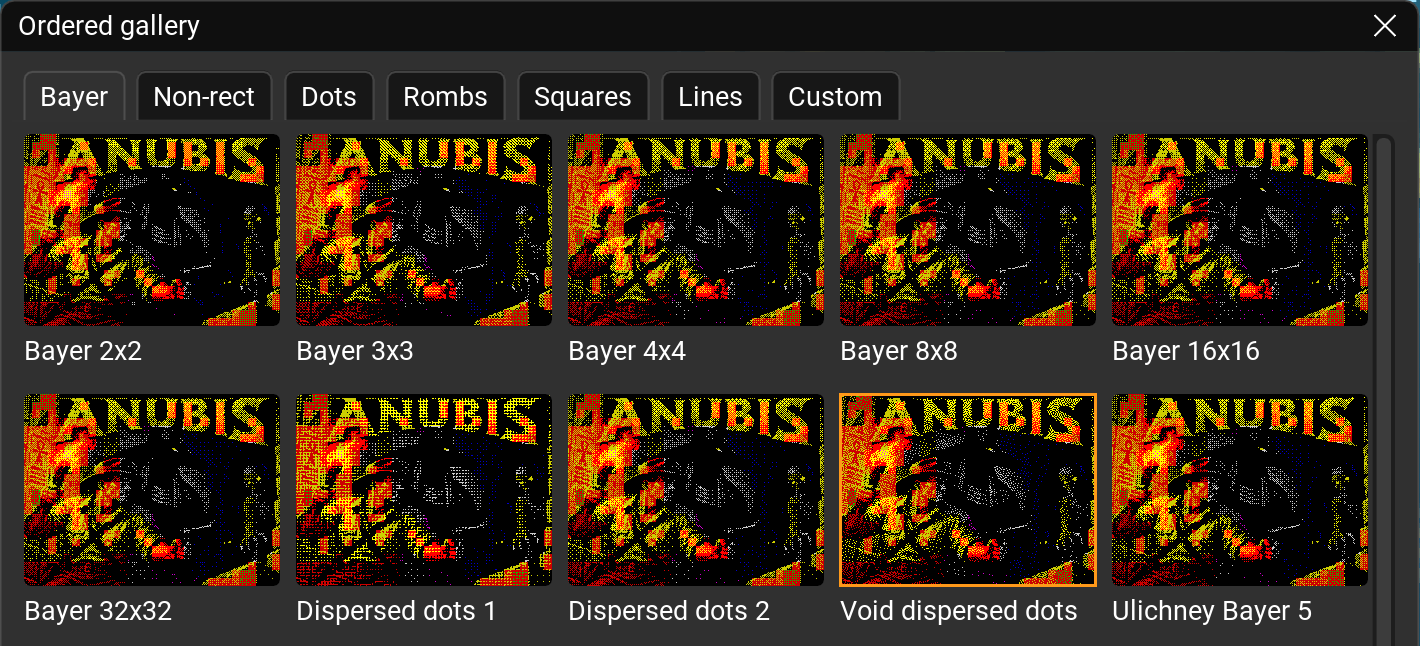
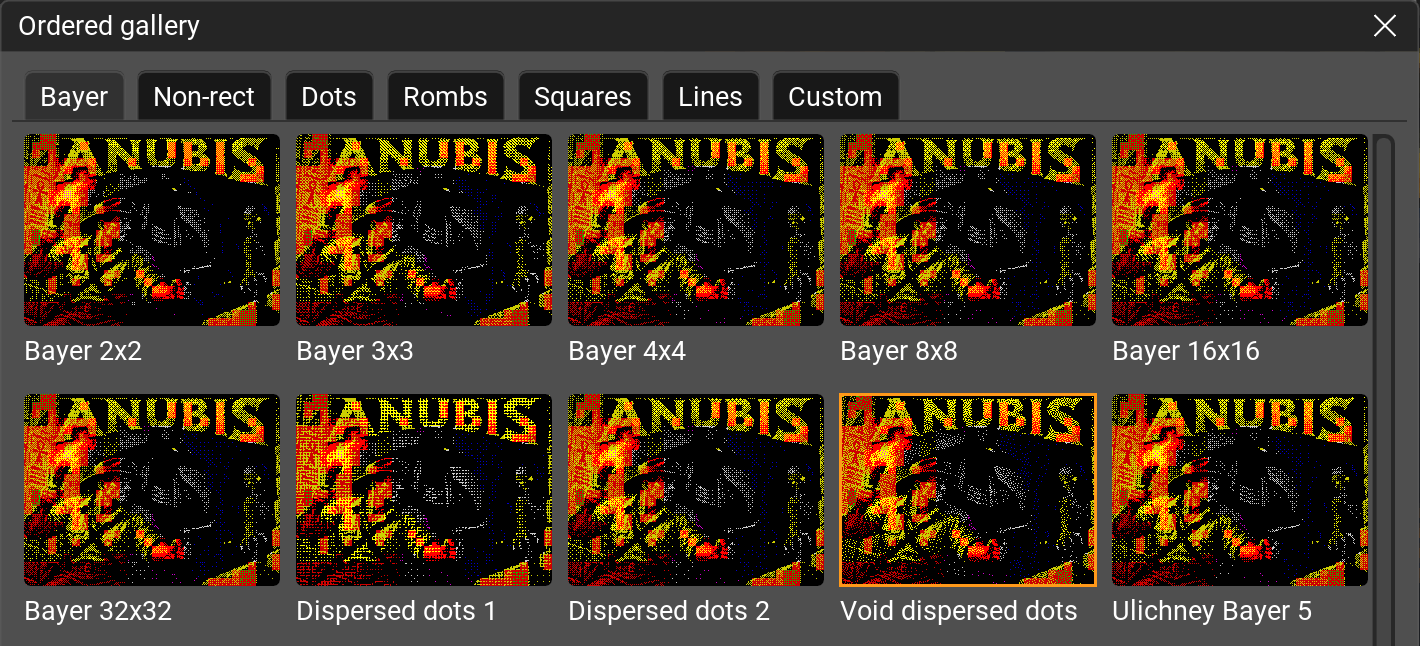
PhotoshopStyle as the default theme; the UI tests and the screenshots on it
The test runs' temp ini kept the theme of the first run there, so they ran on the old default: a test run does not
remember the theme. The docs' pictures retaken on PhotoshopStyle.

Claude-Session: https://claude.ai/code/session_01LD28UwYSy5EQZZBPjBZYX9

diff --git a/src/mokit/ui/style.py b/src/mokit/ui/style.py
@@ -17,7 +17,7 @@ from contextlib import contextmanager
 
 from imgui_bundle import imgui, hello_imgui, em_size, em_to_vec2
 
-THEME = hello_imgui.ImGuiTheme_.so_dark_accent_blue
+THEME = hello_imgui.ImGuiTheme_.photoshop_style
 FONT, FONT_SIZE = "fonts/Roboto/Roboto-Regular.ttf", 16.0   # imgui_bundle asset; hello_imgui scales it for DPI
 FONT_BOLD = "fonts/Roboto/Roboto-Bold.ttf"
 FONT_ICONS = "fonts/Font_Awesome_6_Free-Solid-900.otf"   # merged into both: icons_fontawesome_6.ICON_FA_* in any label

diff --git a/src/dizher/ui/window.py b/src/dizher/ui/window.py
@@ -413,6 +413,7 @@ class Window:
             p.app_window_params.restore_previous_geometry = False
             p.ini_folder_type = hello_imgui.IniFolderType.temp_folder
             p.docking_params.layout_condition = hello_imgui.DockingLayoutCondition.application_start
+            p.imgui_window_params.remember_theme = False   # the default theme, not the one a run before left in the ini
             p.callbacks.post_init = p.callbacks.before_exit = lambda: None
         return p
 

diff --git a/CHANGELOG.md b/CHANGELOG.md
@@ -81,6 +81,7 @@ requests in its GitHub release. The pictures are made by `docs/screenshots.py`.
 
 - An edit while DBS runs keeps the last picture on screen; the preview no longer flashes an older one.
 - Popups and windows are opaque in every theme.
+- PhotoshopStyle is the default theme. An installed app keeps the theme it last ran with; View > Theme picks another.
 
 ## 0.2.4-alpha
 
